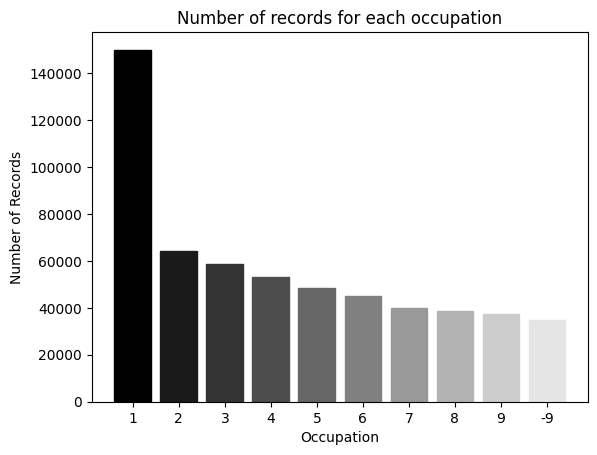
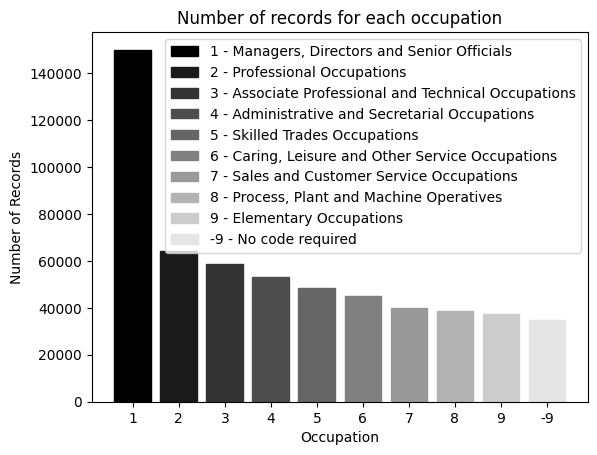
Add legend to basic plots

Changed region(s): [[0.2714, 0.0923, 0.9648, 0.5846]]

diff --git a/code/basic_plots.py b/code/basic_plots.py
@@ -27,7 +27,7 @@ def genRecordBarPlot(df, colName):
         values = [str(x) for x in colMap.get(colName).values]
         # plot options w/ their frequencies
         f, ax = plt.subplots()
-        bars = ax.bar(values, df[colName].value_counts()) 
+        bars = ax.bar(values, df[colName].value_counts(), label=values)
         col = 0
         for bar in bars:
             bar.set_color(str(col))
@@ -44,10 +44,10 @@ def genRecordBarPlot(df, colName):
         # create legend w/ keys and descriptions
         # refer to for legend stuff
         # https://stackoverflow.com/questions/62941033/how-to-turn-x-axis-values-into-a-legend-for-matplotlib-bar-graph 
-        legend = '\n'.join(f'{x.key()} - {x.desc()}' for x in colMap.get(colName).options)
+        legend = [f'{x.key()} - {x.desc().split("(")[0]}' for x in colMap.get(colName).options]
         # TO DO: ADD LEGEND SOMEHOW
         #ax.legend([x for x in colMap.get(colName).options])
-        
+        plt.legend(labels=legend)
         # save and close
         plt.savefig(imagesDir+'barchart-'+colName.replace(' ', '-').lower()+'.png', bbox_inches="tight")
         plt.close()
